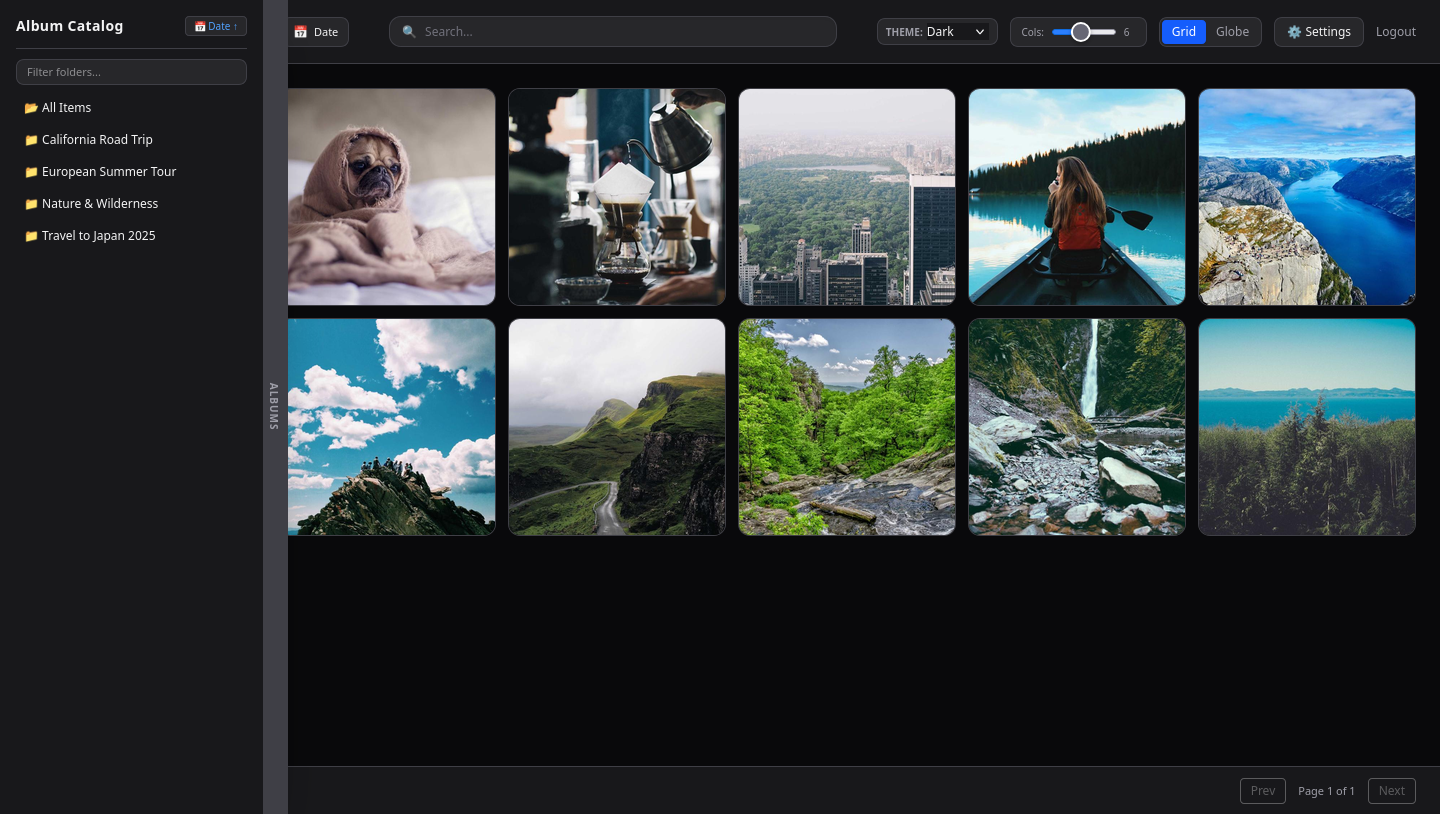
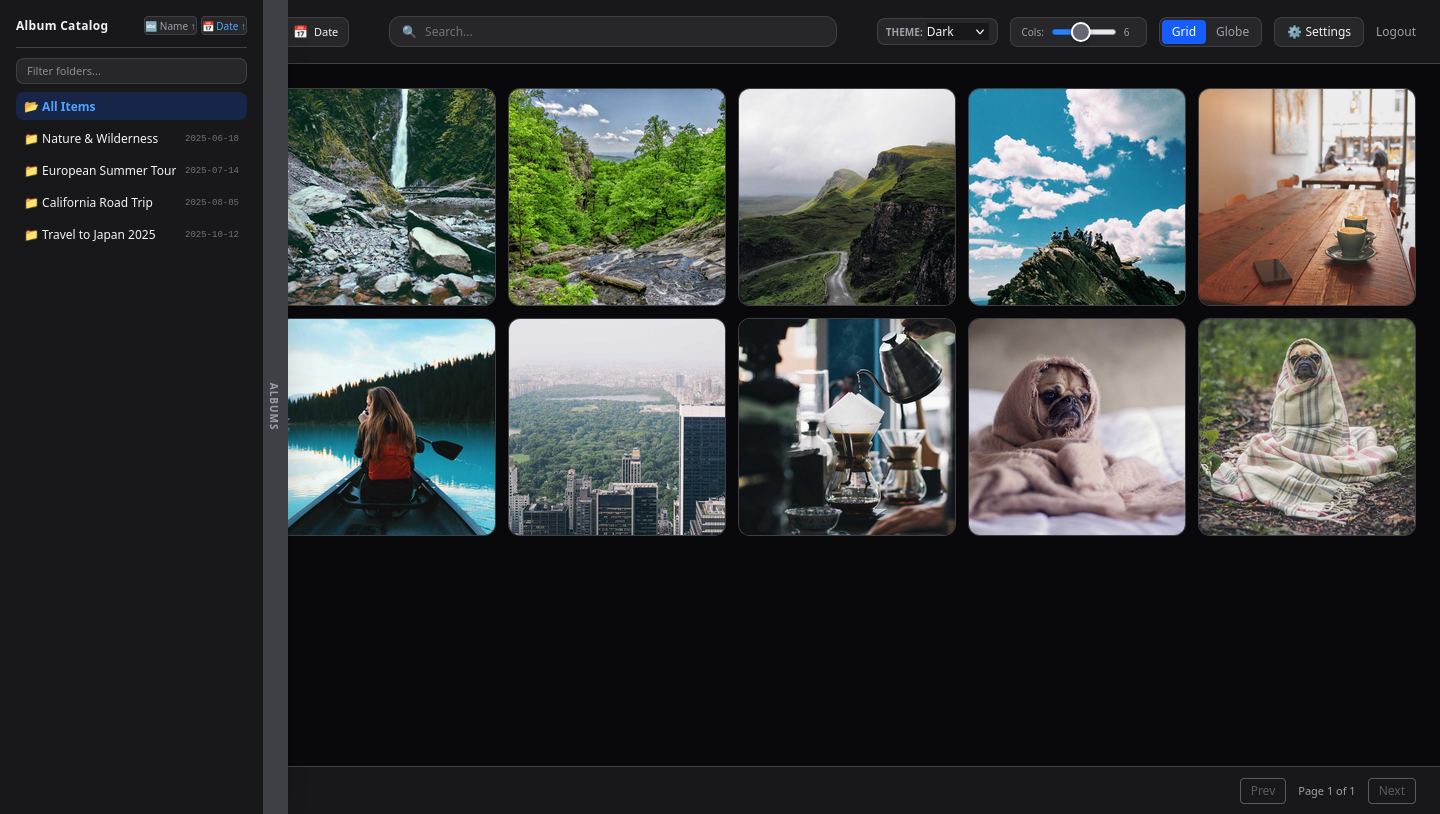
feat(sidebar): add folder search filtering, Name asc/desc sort button, and Date asc/desc sorting

diff --git a/dist/index.html b/dist/index.html
@@ -145,18 +145,22 @@
   <!-- AUTO-HIDE SIDEBAR -->
   <aside id="sidebar" style="background-color: var(--bg-panel); border-color: var(--border-color);" class="fixed top-0 bottom-0 left-0 w-72 border-r z-40 flex shadow-2xl backdrop-blur">
     <div class="flex-1 flex flex-col p-4 overflow-hidden">
-      <div style="border-color: var(--border-color);" class="pb-3 border-b flex items-center justify-between">
-        <span class="font-bold text-sm tracking-wide">Album Catalog</span>
-        <button id="sort-toggle-btn" onclick="cycleAlbumSort()" style="background-color: var(--bg-input); border-color: var(--border-color);" class="text-[10px] px-2 py-0.5 rounded border text-blue-400">📅 Date ↑</button>
+      <div style="border-color: var(--border-color);" class="pb-3 border-b flex items-center justify-between gap-1">
+        <span class="font-bold text-xs tracking-wide shrink-0">Album Catalog</span>
+        <div class="flex items-center gap-1 shrink-0">
+          <button id="sort-name-btn" onclick="toggleNameSort()" style="background-color: var(--bg-input); border-color: var(--border-color);" class="text-[10px] px-1.5 py-0.5 rounded border text-zinc-400 hover:border-blue-500 transition" title="Sort by Folder Name (ASC / DESC)">🔤 Name ↑</button>
+          <button id="sort-toggle-btn" onclick="toggleDateSort()" style="background-color: var(--bg-input); border-color: var(--border-color);" class="text-[10px] px-1.5 py-0.5 rounded border text-blue-400 border-blue-500/60 hover:border-blue-500 transition" title="Sort by Date (ASC / DESC)">📅 Date ↑</button>
+        </div>
       </div>
-      <div class="mt-2.5 mb-2">
-        <input id="folder-filter-input" type="text" placeholder="Filter folders..." oninput="handleFolderSearch(this.value)" style="background-color: var(--bg-input); border-color: var(--border-color);" class="w-full border rounded-lg px-2.5 py-1 text-[11px] focus:outline-none" />
+      <div class="mt-2.5 mb-2 relative flex items-center">
+        <input id="folder-filter-input" type="text" placeholder="Filter folders..." oninput="handleFolderSearch(this.value)" style="background-color: var(--bg-input); border-color: var(--border-color);" class="w-full border rounded-lg px-2.5 py-1 pr-6 text-[11px] focus:outline-none focus:border-blue-500" />
+        <button id="clear-folder-filter-btn" onclick="clearFolderSearch()" class="hidden absolute right-2 text-zinc-400 hover:text-red-500 text-[10px]">✕</button>
       </div>
       <div class="flex-1 overflow-y-auto space-y-4">
         <div id="sidebar-albums-list" class="space-y-1"></div>
       </div>
     </div>
-    <div style="background-color: var(--border-color);" class="w-[24px] flex items-center justify-center cursor-pointer">
+    <div onclick="document.getElementById('sidebar').classList.toggle('expanded')" style="background-color: var(--border-color);" class="w-[24px] flex items-center justify-center cursor-pointer">
       <span class="rotate-90 text-[10px] tracking-widest uppercase font-semibold text-zinc-400">Albums</span>
     </div>
   </aside>
@@ -352,6 +356,7 @@
 
   <script>
     let mediaItems = [];
+    let allAlbums = [];
     let currentAlbum = null;
     let limit = 40;
     let offset = 0;
@@ -443,19 +448,133 @@
     async function loadAlbums() {
       try {
         const res = await fetch('/api/media/albums');
-        const albums = await res.json();
-        const container = document.getElementById('sidebar-albums-list');
-        container.innerHTML = `
-          <button onclick="selectAlbum(null)" class="w-full text-left px-2 py-1.5 rounded-lg hover:bg-zinc-800/40 transition">📂 All Items</button>
-        ` + albums.map(a => `
-          <button onclick="selectAlbum('${a}')" class="w-full text-left px-2 py-1.5 rounded-lg hover:bg-zinc-800/40 transition truncate">📁 ${a}</button>
-        `).join('');
+        const data = await res.json();
+        allAlbums = (Array.isArray(data) ? data : []).map(a => {
+          if (typeof a === 'string') {
+            return { album_name: a, min_date: '', max_date: '', count: 0 };
+          }
+          return {
+            album_name: a.album_name,
+            min_date: a.min_date || '',
+            max_date: a.max_date || '',
+            count: a.count || 0
+          };
+        });
+        renderAlbumsList();
       } catch (err) {}
+    }
+
+    function updateSortButtonsUI() {
+      const btnName = document.getElementById('sort-name-btn');
+      const btnDate = document.getElementById('sort-toggle-btn');
+      if (!btnName || !btnDate) return;
+
+      const isName = currentSortMode.startsWith('name_');
+      const isDate = currentSortMode.startsWith('date_');
+
+      if (isName) {
+        btnName.innerText = currentSortMode === 'name_asc' ? '🔤 Name ↑' : '🔤 Name ↓';
+        btnName.className = 'text-[10px] px-1.5 py-0.5 rounded border text-blue-400 border-blue-500/60 hover:border-blue-500 transition font-semibold';
+        btnDate.className = 'text-[10px] px-1.5 py-0.5 rounded border text-zinc-400 hover:border-blue-500 transition';
+      } else if (isDate) {
+        btnDate.innerText = currentSortMode === 'date_asc' ? '📅 Date ↑' : '📅 Date ↓';
+        btnDate.className = 'text-[10px] px-1.5 py-0.5 rounded border text-blue-400 border-blue-500/60 hover:border-blue-500 transition font-semibold';
+        btnName.className = 'text-[10px] px-1.5 py-0.5 rounded border text-zinc-400 hover:border-blue-500 transition';
+      }
+    }
+
+    function toggleNameSort() {
+      if (currentSortMode === 'name_asc') {
+        currentSortMode = 'name_desc';
+      } else {
+        currentSortMode = 'name_asc';
+      }
+      updateSortButtonsUI();
+      renderAlbumsList();
+      applyFiltersAndPaging(0);
+    }
+
+    function toggleDateSort() {
+      if (currentSortMode === 'date_asc') {
+        currentSortMode = 'date_desc';
+      } else {
+        currentSortMode = 'date_asc';
+      }
+      updateSortButtonsUI();
+      renderAlbumsList();
+      applyFiltersAndPaging(0);
+    }
+
+    function cycleAlbumSort() {
+      toggleDateSort();
+    }
+
+    function handleFolderSearch(val) {
+      folderSearchQuery = (val || '').trim();
+      const clearBtn = document.getElementById('clear-folder-filter-btn');
+      if (clearBtn) {
+        clearBtn.classList.toggle('hidden', folderSearchQuery.length === 0);
+      }
+      renderAlbumsList();
+    }
+
+    function clearFolderSearch() {
+      const inp = document.getElementById('folder-filter-input');
+      if (inp) inp.value = '';
+      folderSearchQuery = '';
+      const clearBtn = document.getElementById('clear-folder-filter-btn');
+      if (clearBtn) clearBtn.classList.add('hidden');
+      renderAlbumsList();
+    }
+
+    function renderAlbumsList() {
+      const container = document.getElementById('sidebar-albums-list');
+      if (!container) return;
+
+      const q = folderSearchQuery.toLowerCase();
+      let filtered = allAlbums.filter(a => !q || a.album_name.toLowerCase().includes(q));
+
+      filtered.sort((a, b) => {
+        if (currentSortMode === 'name_asc') {
+          return a.album_name.localeCompare(b.album_name);
+        } else if (currentSortMode === 'name_desc') {
+          return b.album_name.localeCompare(a.album_name);
+        } else if (currentSortMode === 'date_asc') {
+          return (a.min_date || '').localeCompare(b.min_date || '') || a.album_name.localeCompare(b.album_name);
+        } else {
+          return (b.max_date || '').localeCompare(a.max_date || '') || a.album_name.localeCompare(b.album_name);
+        }
+      });
+
+      const allActive = currentAlbum === null ? 'bg-blue-600/20 text-blue-400 font-semibold' : 'hover:bg-zinc-800/40';
+      const albumsHtml = filtered.map(a => {
+        const isActive = currentAlbum === a.album_name ? 'bg-blue-600/20 text-blue-400 font-semibold' : 'hover:bg-zinc-800/40';
+        const safeName = a.album_name.replace(/'/g, "\\'");
+        const dateHint = a.min_date ? a.min_date.split(' ')[0] : '';
+        return `
+          <button onclick="selectAlbum('${safeName}')" class="w-full text-left px-2 py-1.5 rounded-lg transition flex items-center justify-between gap-2 ${isActive}">
+            <span class="truncate">📁 ${a.album_name}</span>
+            ${dateHint ? `<span class="text-[9px] text-zinc-500 font-mono shrink-0">${dateHint}</span>` : ''}
+          </button>
+        `;
+      }).join('');
+
+      container.innerHTML = `
+        <button onclick="selectAlbum(null)" class="w-full text-left px-2 py-1.5 rounded-lg transition flex items-center justify-between ${allActive}">
+          <span>📂 All Items</span>
+        </button>
+      ` + (filtered.length > 0 ? albumsHtml : `<div class="px-2 py-2 text-[11px] text-zinc-500 italic">No matching folders</div>`);
     }
 
     function selectAlbum(album) {
       currentAlbum = album;
       document.getElementById('active-album-title').innerText = album || 'All Media';
+      renderAlbumsList();
+      applyFiltersAndPaging(0);
+    }
+
+    function changeLimit(val) {
+      limit = parseInt(val, 10) || 40;
       applyFiltersAndPaging(0);
     }
 
@@ -464,7 +583,7 @@
       const from = document.getElementById('date-from').value;
       const to = document.getElementById('date-to').value;
 
-      let url = `/api/media?limit=${limit}&offset=${offset}&`;
+      let url = `/api/media?limit=${limit}&offset=${offset}&sort=${encodeURIComponent(currentSortMode)}&`;
       if (searchQuery) url += `search=${encodeURIComponent(searchQuery)}&`;
       if (from) url += `date_from=${from}&`;
       if (to) url += `date_to=${to}&`;

diff --git a/server.py b/server.py
@@ -190,8 +190,22 @@ class MediaVaultHandler(http.server.SimpleHTTPRequestHandler):
 
         elif path == "/api/media/albums":
             conn = get_db()
-            rows = conn.execute("SELECT DISTINCT album_name FROM media WHERE album_name IS NOT NULL ORDER BY album_name ASC").fetchall()
-            albums = [r["album_name"] for r in rows]
+            rows = conn.execute("""
+                SELECT album_name, MIN(date_taken) AS min_date, MAX(date_taken) AS max_date, COUNT(*) AS item_count
+                FROM media
+                WHERE album_name IS NOT NULL
+                GROUP BY album_name
+                ORDER BY album_name ASC
+            """).fetchall()
+            albums = [
+                {
+                    "album_name": r["album_name"],
+                    "min_date": r["min_date"] or "",
+                    "max_date": r["max_date"] or "",
+                    "count": r["item_count"]
+                }
+                for r in rows
+            ]
             conn.close()
             self.send_json(albums)
             return
@@ -203,6 +217,15 @@ class MediaVaultHandler(http.server.SimpleHTTPRequestHandler):
             date_from = query.get("date_from", [None])[0]
             date_to = query.get("date_to", [None])[0]
             album = query.get("album", [None])[0]
+            sort = query.get("sort", ["date_desc"])[0]
+
+            order_map = {
+                "date_asc": "date_taken ASC, id ASC",
+                "date_desc": "date_taken DESC, id DESC",
+                "name_asc": "album_name ASC, file_path ASC",
+                "name_desc": "album_name DESC, file_path DESC"
+            }
+            order_sql = order_map.get(sort, "date_taken DESC, id DESC")
 
             conn = get_db()
             where = ["1=1"]
@@ -225,7 +248,7 @@ class MediaVaultHandler(http.server.SimpleHTTPRequestHandler):
             where_sql = " AND ".join(where)
             total = conn.execute(f"SELECT COUNT(*) FROM media WHERE {where_sql}", params).fetchone()[0]
 
-            query_sql = f"SELECT id, album_name, file_type, date_taken, latitude, longitude, caption, thumb_hash FROM media WHERE {where_sql} ORDER BY date_taken DESC LIMIT ? OFFSET ?"
+            query_sql = f"SELECT id, album_name, file_type, date_taken, latitude, longitude, caption, thumb_hash FROM media WHERE {where_sql} ORDER BY {order_sql} LIMIT ? OFFSET ?"
             rows = conn.execute(query_sql, params + [limit, offset]).fetchall()
             
             items = []

diff --git a/src/main.rs b/src/main.rs
@@ -59,8 +59,17 @@ struct MediaFilterQuery {
     date_to: Option<String>,
     album: Option<String>,
     search: Option<String>,
+    sort: Option<String>,
     limit: Option<i64>,
     offset: Option<i64>,
+}
+
+#[derive(Serialize, sqlx::FromRow)]
+struct AlbumInfo {
+    album_name: String,
+    min_date: Option<String>,
+    max_date: Option<String>,
+    count: i64,
 }
 
 #[derive(Serialize, sqlx::FromRow)]
@@ -341,9 +350,9 @@ async fn trigger_sync_handler(State(state): State<Arc<AppState>>) -> Result<Stat
     Ok(StatusCode::ACCEPTED)
 }
 
-async fn list_albums_handler(State(state): State<Arc<AppState>>) -> Result<Json<Vec<String>>, StatusCode> {
-    let albums: Vec<String> = sqlx::query_scalar(
-        "SELECT DISTINCT album_name FROM media WHERE album_name IS NOT NULL ORDER BY album_name ASC"
+async fn list_albums_handler(State(state): State<Arc<AppState>>) -> Result<Json<Vec<AlbumInfo>>, StatusCode> {
+    let albums = sqlx::query_as::<_, AlbumInfo>(
+        "SELECT album_name, MIN(date_taken) AS min_date, MAX(date_taken) AS max_date, COUNT(*) AS count FROM media WHERE album_name IS NOT NULL GROUP BY album_name ORDER BY album_name ASC"
     )
     .fetch_all(&state.db)
     .await
@@ -358,6 +367,12 @@ async fn list_media_handler(
 ) -> Result<Json<PaginatedResponse>, StatusCode> {
     let limit = filter.limit.unwrap_or(40);
     let offset = filter.offset.unwrap_or(0);
+    let order_clause = match filter.sort.as_deref() {
+        Some("date_asc") => "date_taken ASC, id ASC",
+        Some("name_asc") => "album_name ASC, file_path ASC",
+        Some("name_desc") => "album_name DESC, file_path DESC",
+        _ => "date_taken DESC, id DESC",
+    };
 
     let mut where_clause = " WHERE 1=1".to_string();
     if filter.search.is_some() {
@@ -382,8 +397,8 @@ async fn list_media_handler(
     let total = q_count.fetch_one(&state.db).await.unwrap_or(0);
 
     let select_query = format!(
-        "SELECT id, album_name, file_type, date_taken, latitude, longitude, caption, thumb_hash FROM media {} ORDER BY date_taken DESC LIMIT ? OFFSET ?",
-        where_clause
+        "SELECT id, album_name, file_type, date_taken, latitude, longitude, caption, thumb_hash FROM media {} ORDER BY {} LIMIT ? OFFSET ?",
+        where_clause, order_clause
     );
 
     let mut q_items = sqlx::query_as::<_, MediaItem>(&select_query);
